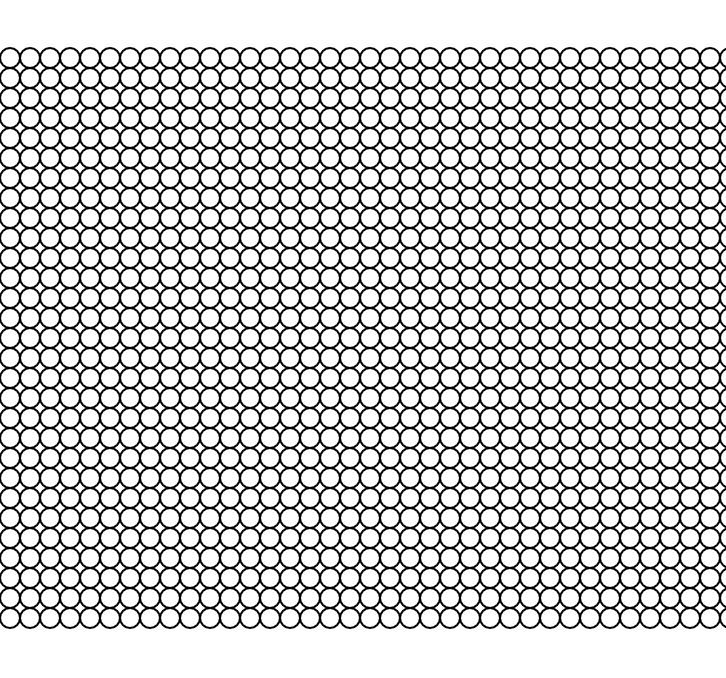
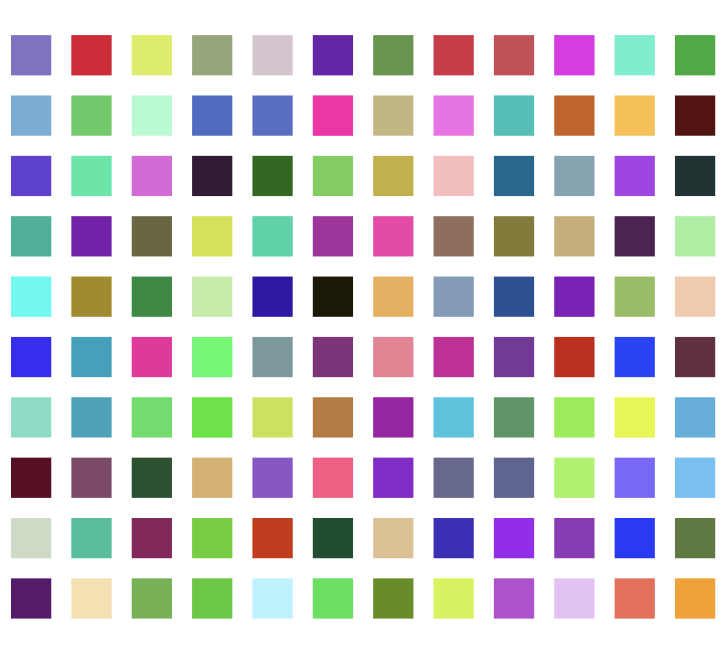
tiles!

diff --git a/tiles_sketch.js b/tiles_sketch.js
@@ -14,20 +14,24 @@
 // }
 
 
-var tileSize = 10;
-var r = random(0, 255);
-var g = random(0, 255);
-var b = random(0, 255);
+var tileSize = 20;
+
+randomSeed(int);
 
 
 function setup() {
 	createCanvas(800, 300);
 	background(255);
 
-	for (var y = 10; y < 300; y += 10){
-		for (var x = 10; x < 800; x += 10){
-			stroke(r, g, b);
-			ellipse(x, y, tileSize, tileSize);
+	for (var y = 10; y < 300; y += 30){
+		for (var x = 10; x < 800; x += 30){
+			var r = random(1, 255);
+			var g = random(1, 255);
+			var b = random(1, 255);
+
+			fill(r, g, b);
+			noStroke();
+			rect(x, y, tileSize, tileSize);
 		}
 	}
 }
